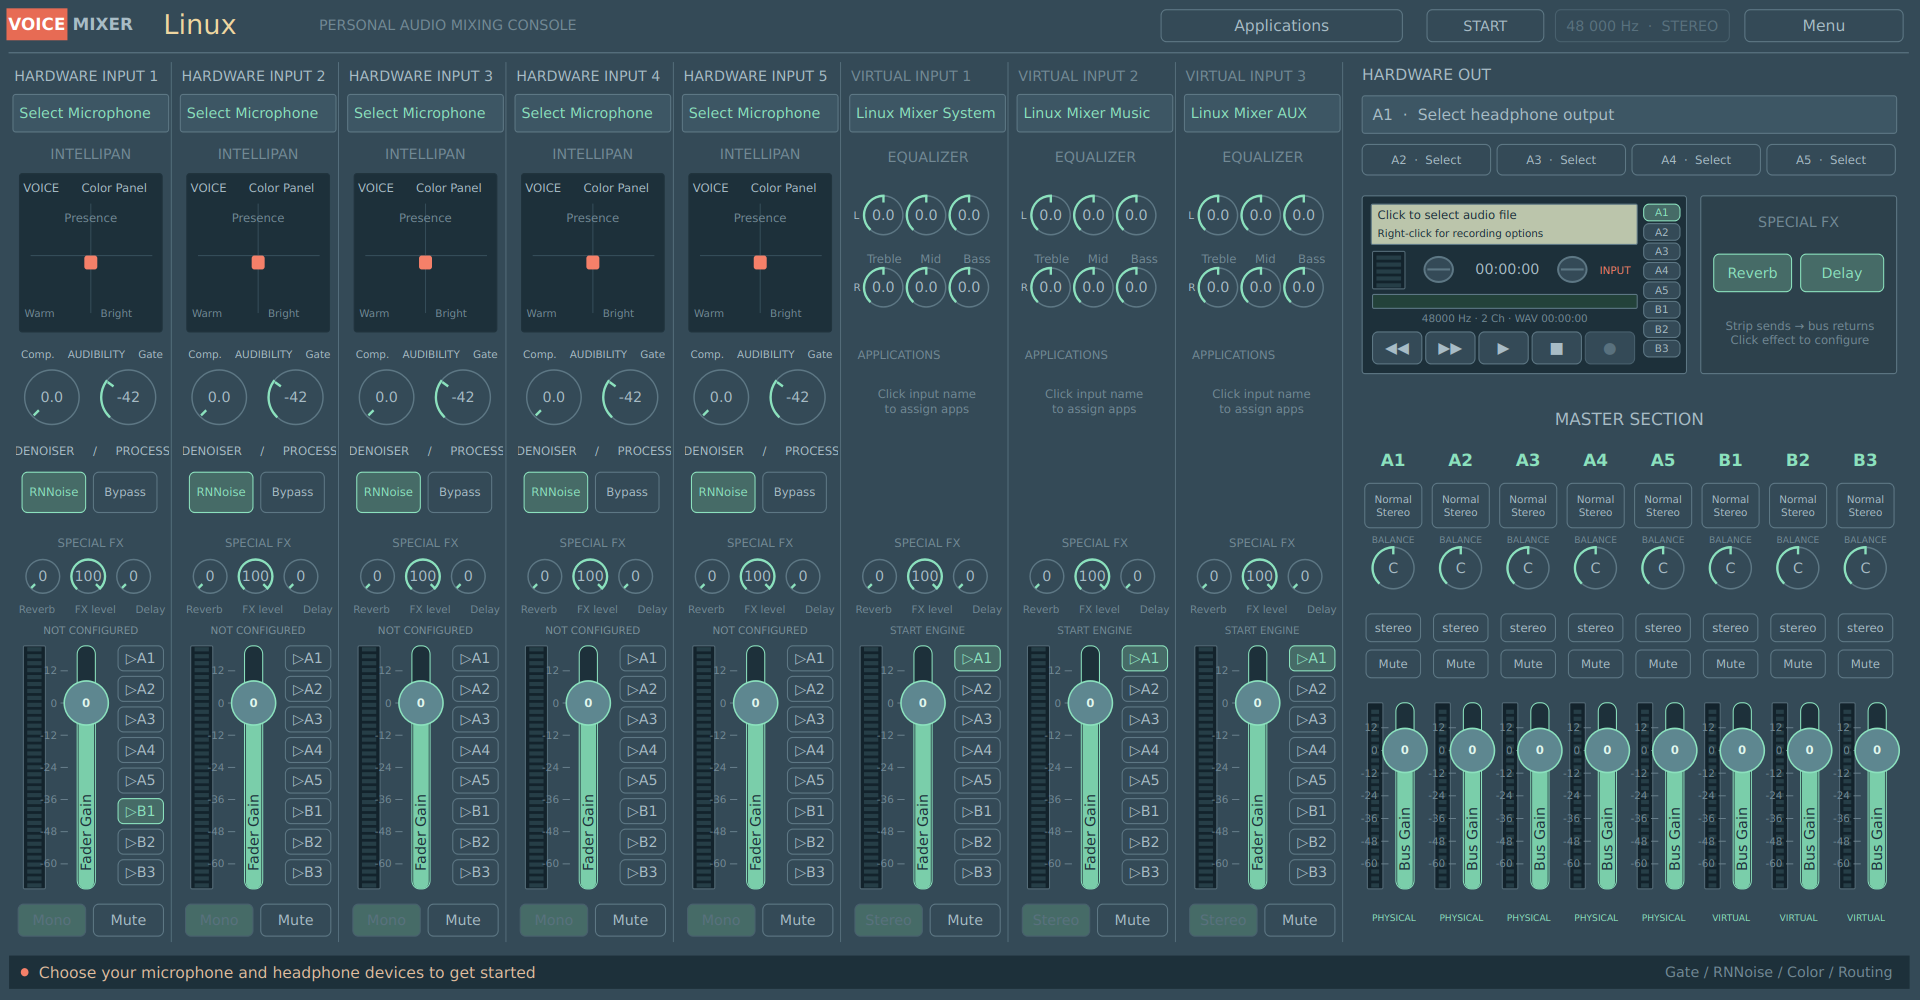
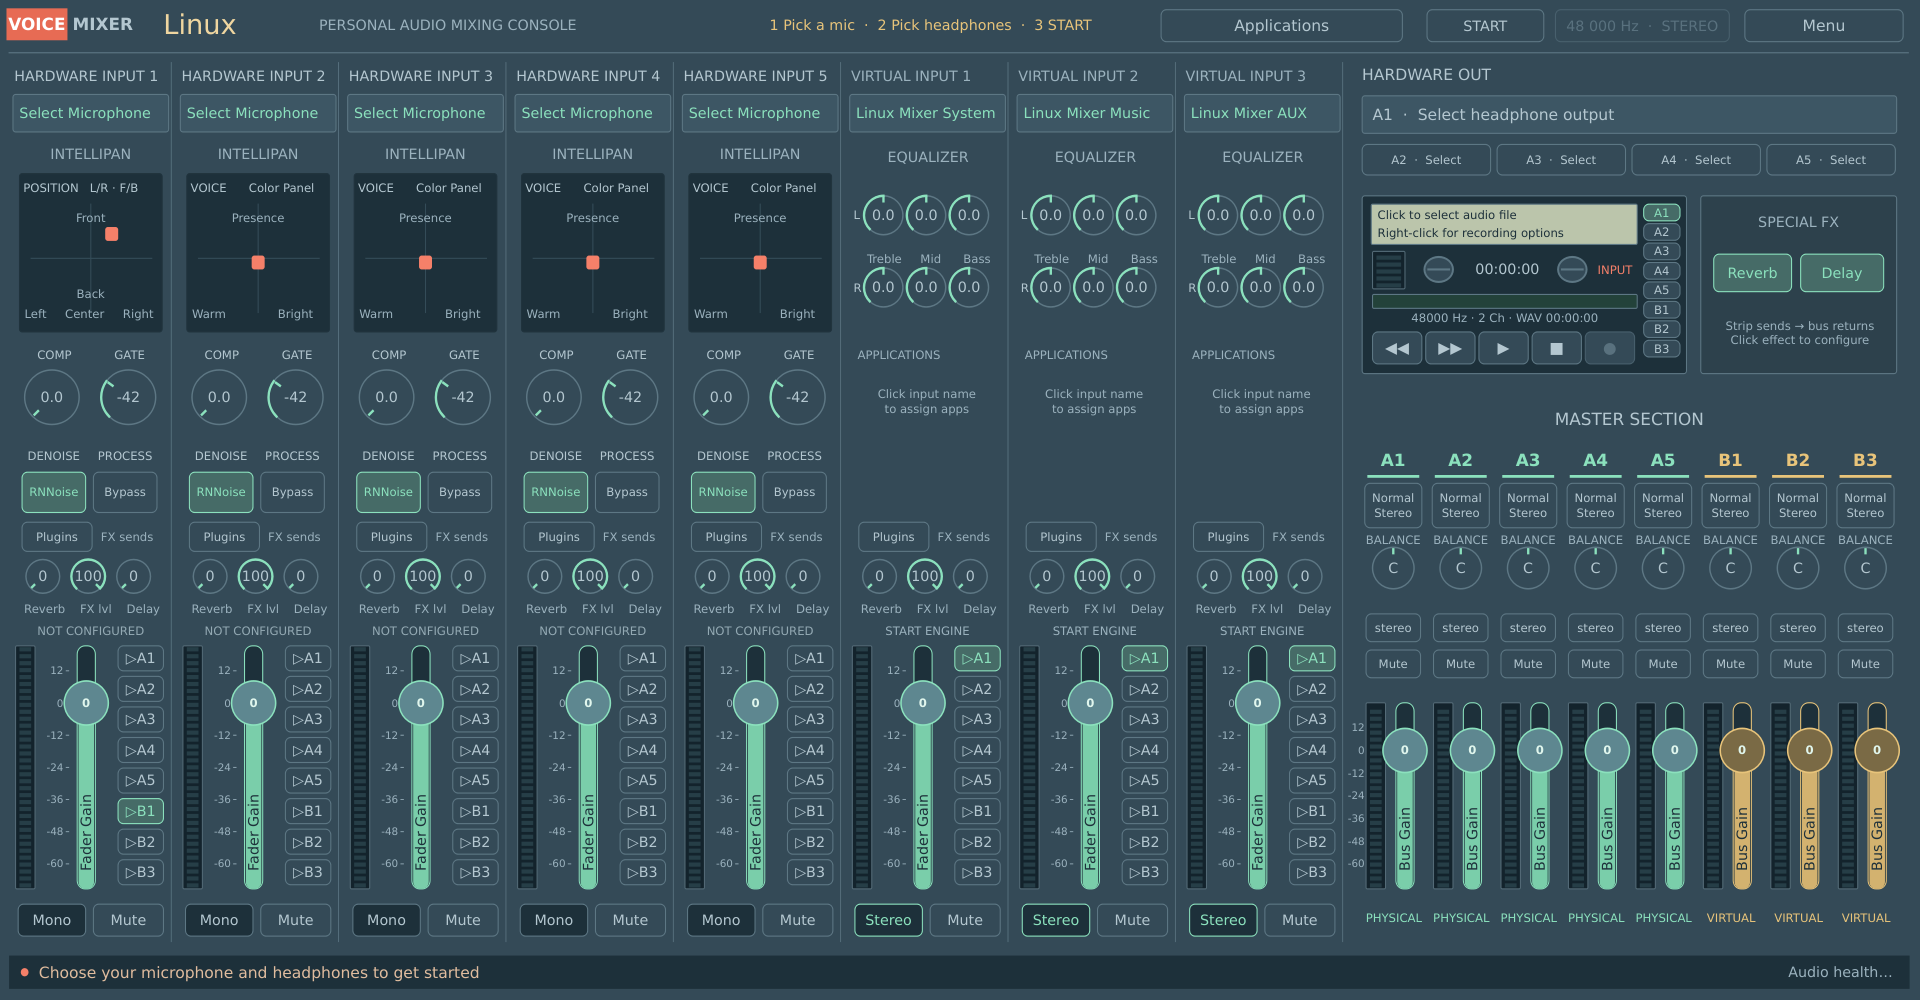
Refresh README screenshots for 0.5.0 interface

diff --git a/README.md b/README.md
@@ -16,8 +16,9 @@ vendored components retain their own licenses and notices (see [vendor](vendor/R
 
 ## Screenshots
 
-Actual application windows captured with a clean profile, before selecting audio
-devices. The recorder example uses a generic recording folder.
+Actual application windows captured with an isolated profile, before selecting audio
+devices. The first input shows the two-axis Position pad; the recorder example
+uses a generic recording folder.
 
 ![Voicemixer main mixing console](docs/screenshots/console.png)
 
